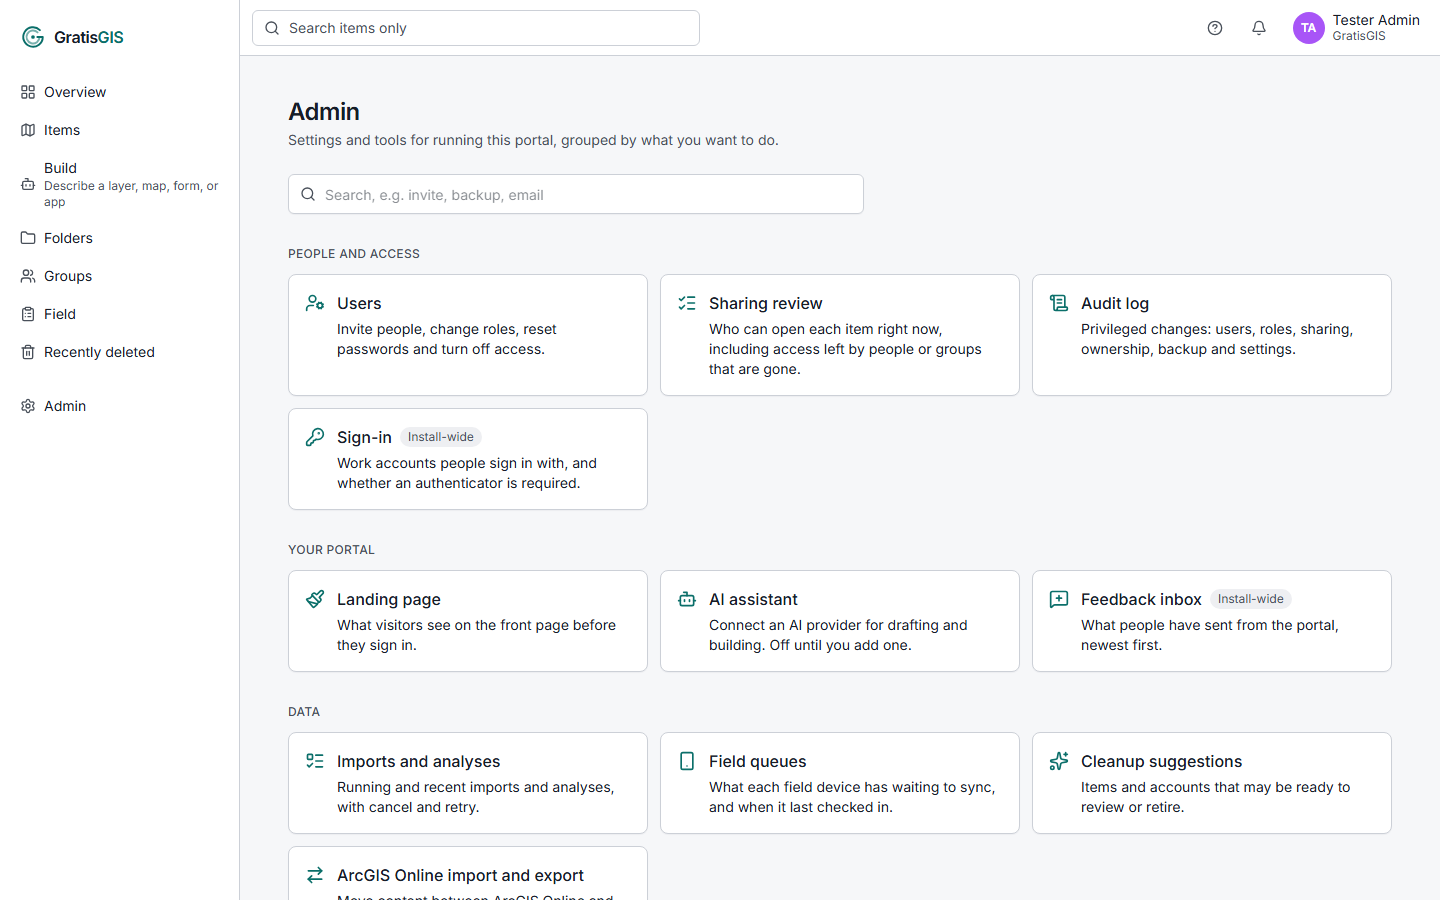
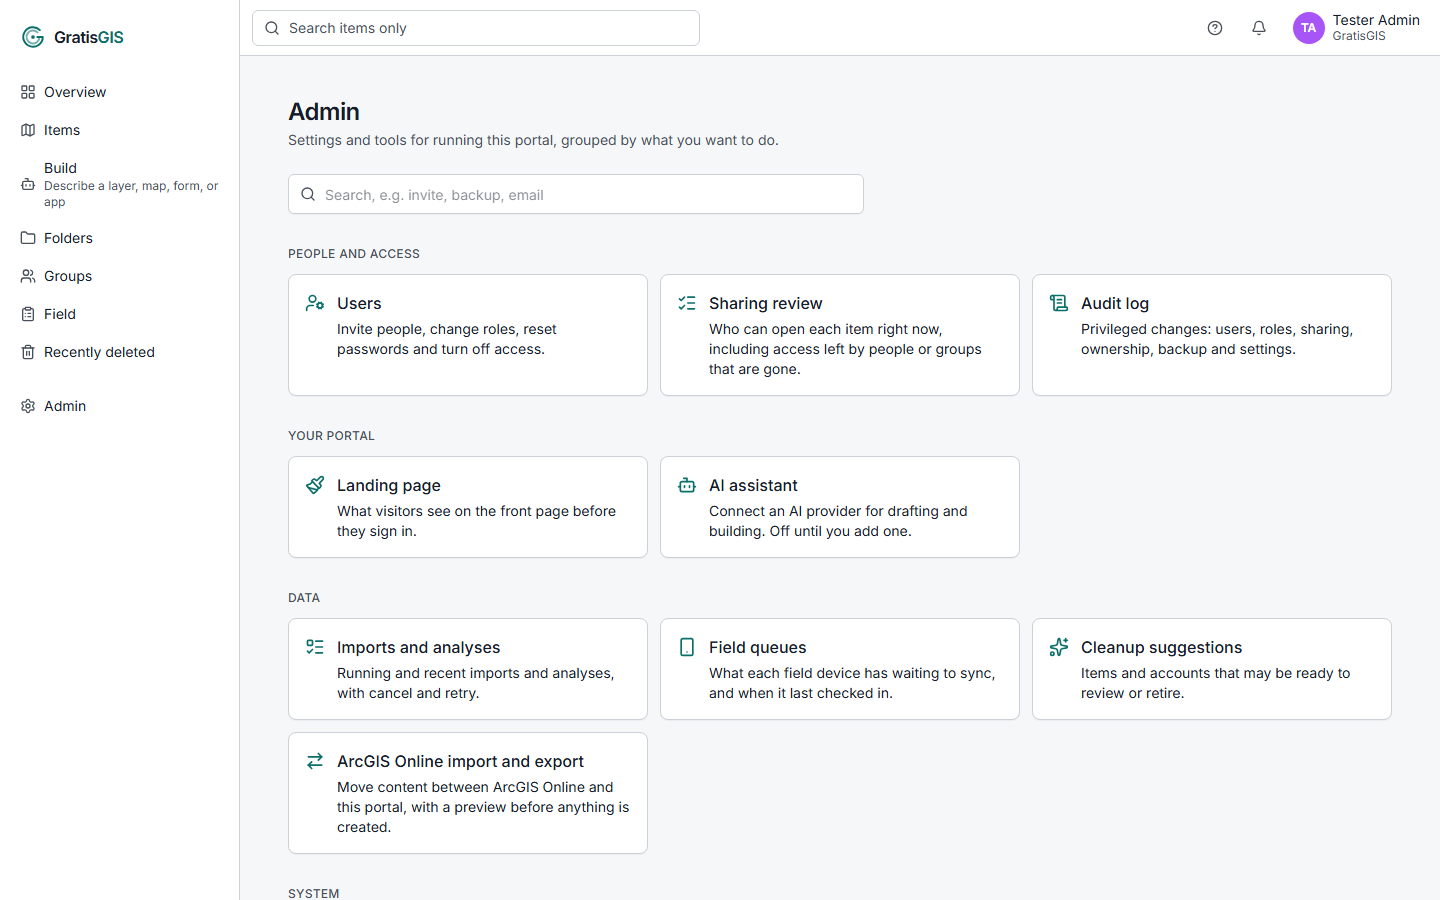
Keep Cleanup suggestions and Updates working for non-operator admins
Cleanup suggestions loaded the install-wide storage-by-data-layer list
in the same Promise.all as the org's own review data, and the API keeps
that list to the operator organization, so any other admin got the
whole Review tab as an error. A 403 there now hides that card, the way
the storage card already did.

Updates kept the "Create backup" button when the availability check
answered 403, and the backup would have been refused the same way. It
now says that the organization running the install takes backups.

Also refreshes the admin help screenshots as a non-operator admin.

diff --git a/apps/portal-web/src/app/admin/housekeeping/housekeeping-view.tsx b/apps/portal-web/src/app/admin/housekeeping/housekeeping-view.tsx
@@ -111,7 +111,9 @@ export interface HousekeepingBundle {
    *  breakdown so the admin can see "WV Parcels = 4.8 GB" at a
    *  glance. Bytes are approximate (prorated from partition size
    *  by row count); ranking is reliable. */
-  largestDataLayers: Array<{
+  /** Null for an admin outside the operator organization: the
+   *  breakdown is install-wide, so the API keeps it to the operator. */
+  largestDataLayers: null | Array<{
     itemId: string;
     layerId: string;
     itemTitle: string;
@@ -935,17 +937,19 @@ export function HousekeepingView({ bundle }: Props) {
           approximate (prorated from partition size by row count).
           Orphans -- scopes whose owning item is gone -- show up
           tagged so they can be cleaned up. */}
-      <Section
-        icon={<Layers className="h-4 w-4" />}
-        title={t('adminHousekeeping.sectionDataLayersTitle')}
-        empty={t('adminHousekeeping.sectionDataLayersEmpty')}
-        count={largestDataLayers.length}
-        caption={t('adminHousekeeping.sectionDataLayersCaption')}
-      >
-        {largestDataLayers.length === 0 ? null : (
-          <LargestDataLayersTable rows={largestDataLayers} />
-        )}
-      </Section>
+      {largestDataLayers ? (
+        <Section
+          icon={<Layers className="h-4 w-4" />}
+          title={t('adminHousekeeping.sectionDataLayersTitle')}
+          empty={t('adminHousekeeping.sectionDataLayersEmpty')}
+          count={largestDataLayers.length}
+          caption={t('adminHousekeeping.sectionDataLayersCaption')}
+        >
+          {largestDataLayers.length === 0 ? null : (
+            <LargestDataLayersTable rows={largestDataLayers} />
+          )}
+        </Section>
+      ) : null}
     </div>
   );
 }
@@ -1532,7 +1536,7 @@ function StorageCard({
 function LargestDataLayersTable({
   rows,
 }: {
-  rows: HousekeepingBundle['largestDataLayers'];
+  rows: NonNullable<HousekeepingBundle['largestDataLayers']>;
 }) {
   const fmt = useFormat();
   const t = useT();

diff --git a/apps/portal-web/src/app/admin/updates/page.tsx b/apps/portal-web/src/app/admin/updates/page.tsx
@@ -28,12 +28,16 @@ export default async function AdminUpdatesPage() {
   // GRATIS_DISABLE_BACKUP_UI: hide the "back up first" button, which
   // the API would refuse.
   let backupDisabled = false;
+  let backupOperatorOnly = false;
   try {
     backupDisabled = (
       await apiFetch<{ disabled: boolean }>('/api/admin/backup/availability')
     ).disabled;
-  } catch {
-    /* not an operator, or older API: keep the button */
+  } catch (err) {
+    // 403: backups belong to the operator organization, so this admin
+    // could not take one; say who can instead of offering a button
+    // that fails. Anything else (an older API): keep the button.
+    if ((err as { status?: number } | null)?.status === 403) backupOperatorOnly = true;
   }
 
   return (
@@ -50,7 +54,13 @@ export default async function AdminUpdatesPage() {
         </div>
       </header>
       {error ? <p className="text-sm text-danger">{error}</p> : null}
-      {report ? <UpdatesView report={report} backupDisabled={backupDisabled} /> : null}
+      {report ? (
+        <UpdatesView
+          report={report}
+          backupDisabled={backupDisabled}
+          backupOperatorOnly={backupOperatorOnly}
+        />
+      ) : null}
     </div>
   );
 }

diff --git a/apps/portal-web/src/app/admin/updates/updates-view.tsx b/apps/portal-web/src/app/admin/updates/updates-view.tsx
@@ -38,9 +38,12 @@ function latestLabel(report: UpdateReport): string {
 export function UpdatesView({
   report,
   backupDisabled = false,
+  backupOperatorOnly = false,
 }: {
   report: UpdateReport;
   backupDisabled?: boolean;
+  /** Backups are the operator organization's; this admin is not in it. */
+  backupOperatorOnly?: boolean;
 }) {
   const t = useT();
   const [backup, setBackup] = useState<{ id?: string; error?: string } | null>(null);
@@ -114,7 +117,9 @@ export function UpdatesView({
       </section>
 
       <ol className="list-decimal space-y-4 pl-5 text-sm">
-        {backupDisabled ? (
+        {backupOperatorOnly ? (
+          <li className="text-muted">{t('updates.backupOperatorOnly')}</li>
+        ) : backupDisabled ? (
           <li className="text-muted">{t('opsPage.backupUiDisabled')}</li>
         ) : (
           <li>

diff --git a/apps/portal-web/src/lib/i18n/messages/fr.ts b/apps/portal-web/src/lib/i18n/messages/fr.ts
@@ -152,6 +152,8 @@ export const fr: Partial<CatalogShape> = {
     downloadBackup: 'Download backup',
     backupPage: 'Open the backup page',
     backupFailed: 'Could not start a backup',
+    backupOperatorOnly:
+      "Les sauvegardes sont faites par les administrateurs de l’organisation qui exploite cette installation. Demandez-leur d’en faire une avant la mise à jour.",
     loadFailed: 'Could not load update information',
     nasCompose: 'Copy the new compose file for this channel:',
     nasComposePaste: 'In TrueNAS, edit the app and paste the file, then Save. In Dockge, open the stack, paste the file, and Save. Keep GRATIS_HTTP_PORT if you changed it.',

diff --git a/apps/portal-web/src/lib/i18n/messages/es.ts b/apps/portal-web/src/lib/i18n/messages/es.ts
@@ -154,6 +154,8 @@ export const es: Partial<CatalogShape> = {
     downloadBackup: 'Download backup',
     backupPage: 'Open the backup page',
     backupFailed: 'Could not start a backup',
+    backupOperatorOnly:
+      "Las copias de seguridad las hacen los administradores de la organización que gestiona esta instalación. Pídales una antes de actualizar.",
     loadFailed: 'Could not load update information',
     nasCompose: 'Copy the new compose file for this channel:',
     nasComposePaste: 'In TrueNAS, edit the app and paste the file, then Save. In Dockge, open the stack, paste the file, and Save. Keep GRATIS_HTTP_PORT if you changed it.',

diff --git a/apps/portal-web/src/lib/i18n/messages/pt-BR.ts b/apps/portal-web/src/lib/i18n/messages/pt-BR.ts
@@ -150,6 +150,8 @@ export const ptBR: Partial<CatalogShape> = {
     downloadBackup: 'Download backup',
     backupPage: 'Open the backup page',
     backupFailed: 'Could not start a backup',
+    backupOperatorOnly:
+      "Os backups são feitos pelos administradores da organização que opera esta instalação. Peça um antes de atualizar.",
     loadFailed: 'Could not load update information',
     nasCompose: 'Copy the new compose file for this channel:',
     nasComposePaste: 'In TrueNAS, edit the app and paste the file, then Save. In Dockge, open the stack, paste the file, and Save. Keep GRATIS_HTTP_PORT if you changed it.',

diff --git a/apps/portal-web/src/lib/i18n/messages/de.ts b/apps/portal-web/src/lib/i18n/messages/de.ts
@@ -152,6 +152,8 @@ export const de: Partial<CatalogShape> = {
     downloadBackup: 'Download backup',
     backupPage: 'Open the backup page',
     backupFailed: 'Could not start a backup',
+    backupOperatorOnly:
+      "Sicherungen erstellen die Admins der Organisation, die diese Installation betreibt. Bitten Sie sie vor dem Update darum.",
     loadFailed: 'Could not load update information',
     nasCompose: 'Copy the new compose file for this channel:',
     nasComposePaste: 'In TrueNAS, edit the app and paste the file, then Save. In Dockge, open the stack, paste the file, and Save. Keep GRATIS_HTTP_PORT if you changed it.',

diff --git a/apps/portal-web/src/app/admin/housekeeping/page.tsx b/apps/portal-web/src/app/admin/housekeeping/page.tsx
@@ -307,9 +307,14 @@ async function BundleSection() {
       apiFetch<HousekeepingBundle['storage']>(
         '/api/admin/housekeeping/storage',
       ).catch(() => null),
+      // Also install-wide and operator-only. A 403 hides the card;
+      // it used to fail the whole Review tab for other org admins.
       apiFetch<HousekeepingBundle['largestDataLayers']>(
         '/api/admin/housekeeping/largest-data-layers',
-      ),
+      ).catch((err: unknown) => {
+        if (isForbidden(err)) return null;
+        throw err;
+      }),
     ]);
     const bundle: HousekeepingBundle = {
       summary,

diff --git a/apps/portal-web/src/lib/i18n/messages/en.ts b/apps/portal-web/src/lib/i18n/messages/en.ts
@@ -167,6 +167,8 @@ export const en = {
     downloadBackup: 'Download backup',
     backupPage: 'Open the backup page',
     backupFailed: 'Could not start a backup',
+    backupOperatorOnly:
+      "Backups are taken by admins of the organization that runs this install. Ask them for one before you upgrade.",
     loadFailed: 'Could not load update information',
     nasCompose:
       'Copy the new compose file for this channel:',

diff --git a/CHANGELOG.md b/CHANGELOG.md
@@ -55,6 +55,12 @@ versioning policy is in [docs/VERSIONING.md](./docs/VERSIONING.md).
 
 ### Fixed
 
+- Admins outside the operator organization can use Cleanup
+  suggestions again. Its Review tab failed whole on the one
+  install-wide list it shows (storage by data layer); that card is now
+  left out for them, as the storage card already was. Updates no
+  longer offers them a backup button the API would refuse, and says
+  who can take one.
 - A first install with `infra/bootstrap.sh` no longer stalls on a
   restart-looping Keycloak. Under the script's `umask 077` the realm
   import directory was created at mode 700, so Keycloak (uid 1000,
